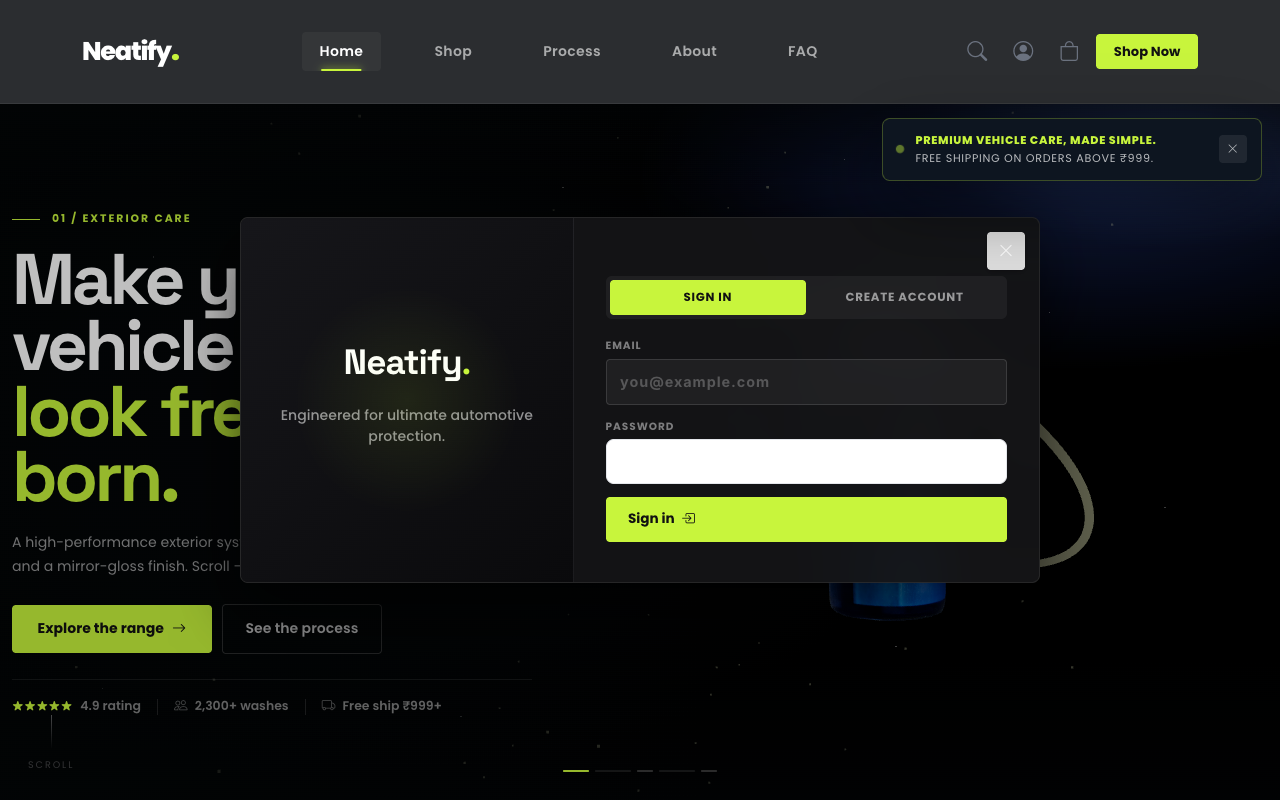
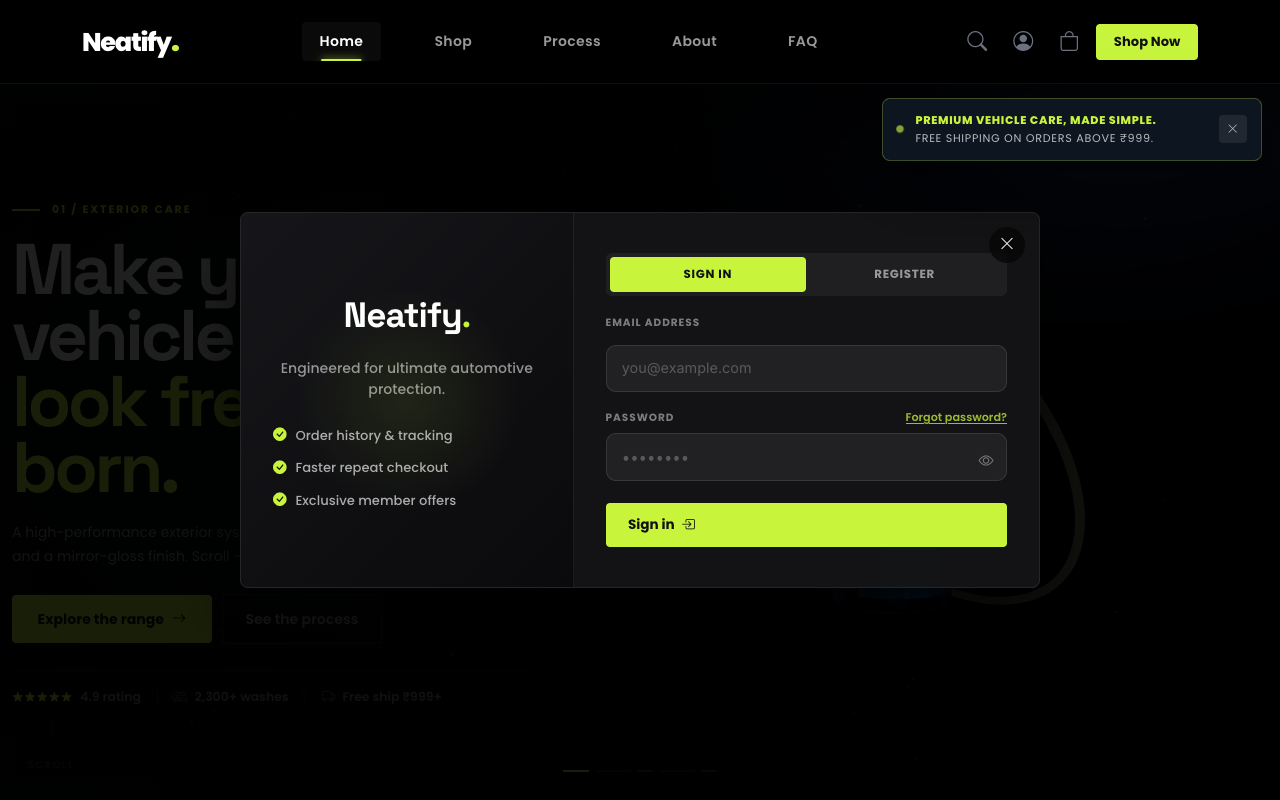
new commit

diff --git a/frontend/src/user.css b/frontend/src/user.css
@@ -222,7 +222,7 @@ button, .btn-hero-primary, .btn-hero-ghost, .btn-primary-sm, .f-pill, .socials a
 }
 .navbar-nav .nav-link:hover, .navbar-nav .nav-link.active {
   color: #fff !important;
-  background: rgba(255,255,255,0.04);
+  background: rgba(255,255,255,0.04) !important;
 }
 
 /* Burger */
